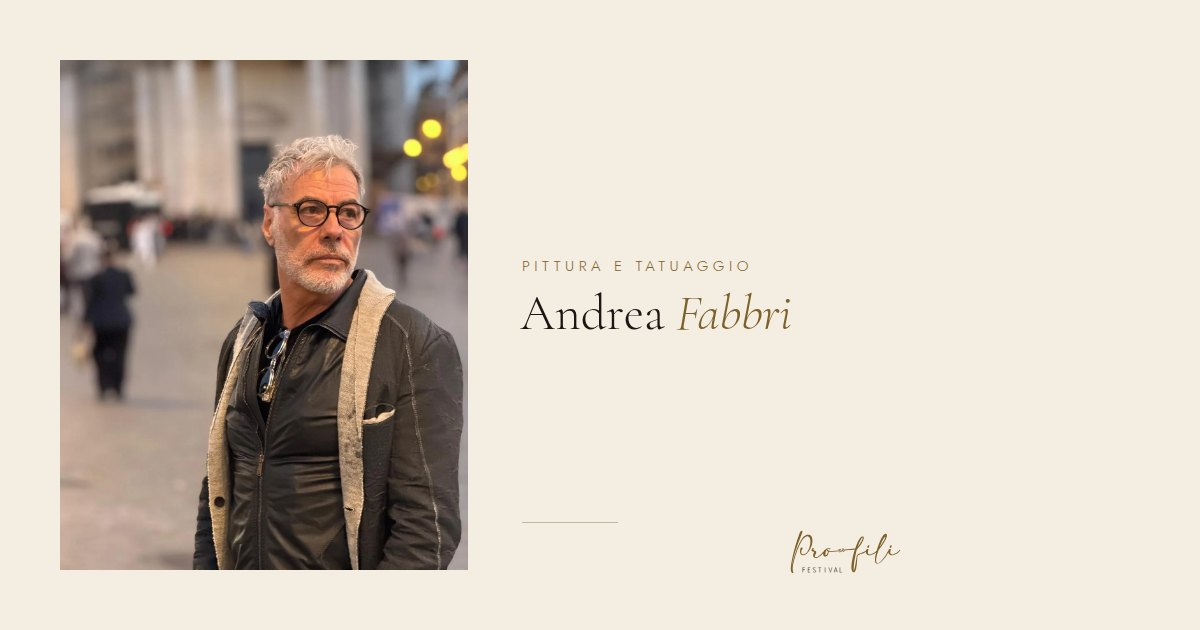
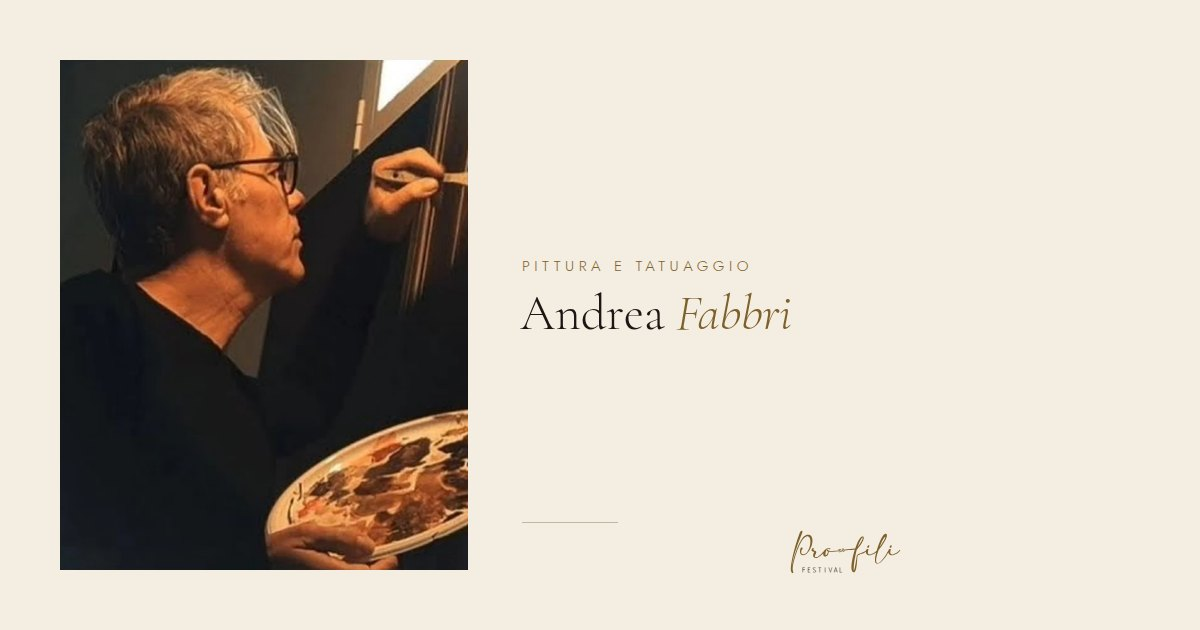
Andrea Fabbri: nuova foto, di profilo mentre dipinge (#50)
Claude-Session: https://claude.ai/code/session_01WuBrQzAiBeGJU4FicGTrQ8

Changed region(s): [[0.0308, 0.0905, 0.4008, 0.9048]]

diff --git a/assets/js/site.js b/assets/js/site.js
@@ -874,7 +874,7 @@
     {s:"alessandro-alfonsi",n:"Alessandro Alfonsi",r:"Musica e teatro",t:"Musica e parola, memoria e ascolto.",i:"alessandro-alfonsi.webp",ss:"alessandro-alfonsi_sm.webp 800w, alessandro-alfonsi.webp 1280w",a:"Ritratto di Alessandro Alfonsi, di profilo",w:1280,h:1600},
     {s:"irma-paulon",n:"Irma Paulon",r:"Arti visive e scultura",t:"Resina, legno, vetro e metallo: la dignità estetica della materia.",i:"irma-paulon.webp",ss:"irma-paulon_sm.webp 800w, irma-paulon.webp 1280w",a:"Ritratto di Irma Paulon al lavoro",w:1280,h:1600},
     {s:"nihil",n:"NIHIL",r:"Musica e cantautorato",t:"Erede al trono di un regno senza terra, in viaggio con la musica.",i:"nihil.webp",ss:"nihil_sm.webp 800w, nihil.webp 1280w",a:"Ritratto di NIHIL di profilo, con il volto blu e la maschera di cristalli",w:1280,h:1600},
-    {s:"andrea-fabbri",n:"Andrea Fabbri",r:"Pittura e tatuaggio",t:"Tatuaggio e pittura: trasformare l'ombra in emozione.",i:"andrea-fabbri.webp",ss:"andrea-fabbri_sm.webp 800w, andrea-fabbri.webp 1280w",a:"Ritratto di Andrea Fabbri, con gli occhiali, in una piazza",w:1280,h:1600}
+    {s:"andrea-fabbri",n:"Andrea Fabbri",r:"Pittura e tatuaggio",t:"Tatuaggio e pittura: trasformare l'ombra in emozione.",i:"andrea-fabbri.webp",ss:"andrea-fabbri_sm.webp 800w, andrea-fabbri.webp 1280w",a:"Andrea Fabbri di profilo mentre dipinge, con la tavolozza in mano",w:1280,h:1600}
   ];
 
   (function () {

diff --git a/index.html b/index.html
@@ -215,7 +215,7 @@
         <p>Resina, legno, vetro e metallo: la dignità estetica della materia.</p>
       </figure></a>
       <a class="person rv" data-tinta="rosso" href="artisti/andrea-fabbri.html"><figure>
-        <div class="ph" data-knot="low"><img src="assets/img/andrea-fabbri.webp" srcset="assets/img/andrea-fabbri_sm.webp 800w, assets/img/andrea-fabbri.webp 1280w" sizes="(max-width:640px) 46vw, (max-width:1000px) 30vw, 220px" alt="Ritratto di Andrea Fabbri, con gli occhiali, in una piazza" width="1280" height="1600" loading="lazy"></div>
+        <div class="ph" data-knot="low"><img src="assets/img/andrea-fabbri.webp" srcset="assets/img/andrea-fabbri_sm.webp 800w, assets/img/andrea-fabbri.webp 1280w" sizes="(max-width:640px) 46vw, (max-width:1000px) 30vw, 220px" alt="Andrea Fabbri di profilo mentre dipinge, con la tavolozza in mano" width="1280" height="1600" loading="lazy"></div>
         <h3>Andrea Fabbri</h3><p class="role">Pittura e tatuaggio</p>
         <p>Tatuaggio e pittura: trasformare l'ombra in emozione.</p>
       </figure></a>

diff --git a/artisti/andrea-fabbri.html b/artisti/andrea-fabbri.html
@@ -69,7 +69,7 @@
 <section class="block paper" data-world="paper">
   <div class="wrap article">
     <aside class="rv">
-      <div class="ph artist-ph"><img src="../assets/img/andrea-fabbri.webp" srcset="../assets/img/andrea-fabbri_sm.webp 800w, ../assets/img/andrea-fabbri.webp 1280w" sizes="(max-width:960px) 90vw, 300px" alt="Ritratto di Andrea Fabbri, con gli occhiali, in una piazza" width="1280" height="1600"></div>
+      <div class="ph artist-ph"><img src="../assets/img/andrea-fabbri.webp" srcset="../assets/img/andrea-fabbri_sm.webp 800w, ../assets/img/andrea-fabbri.webp 1280w" sizes="(max-width:960px) 90vw, 300px" alt="Andrea Fabbri di profilo mentre dipinge, con la tavolozza in mano" width="1280" height="1600"></div>
       <p class="muted" style="margin:-16px 0 24px;font-size:12px">Foto dell'artista</p>
       <dl>
         <dt>Disciplina</dt><dd>Pittura, tatuaggio</dd>
